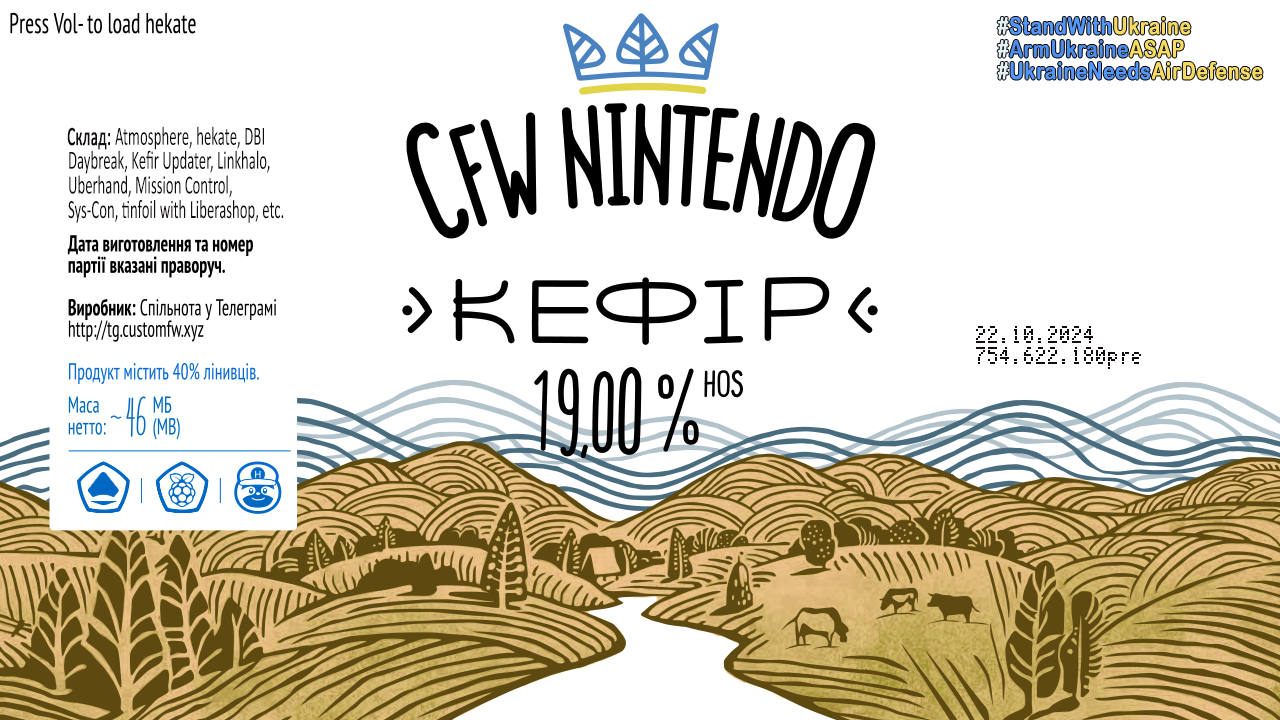
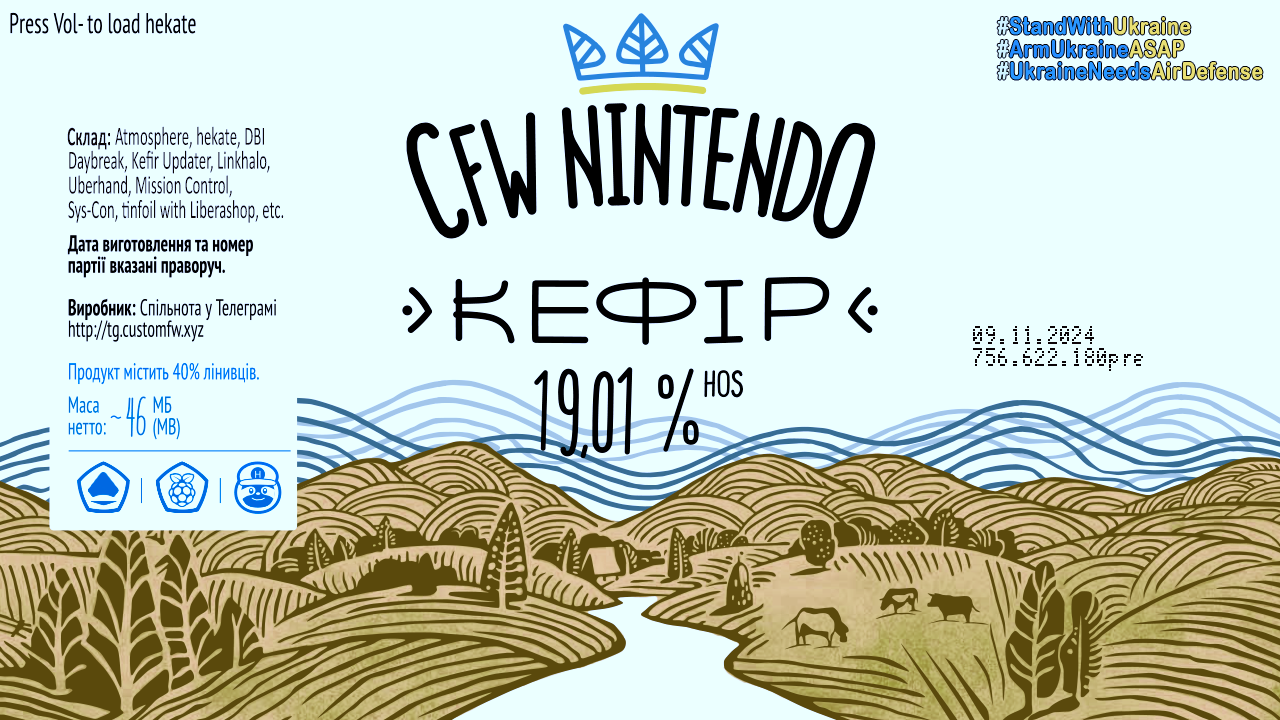
kefir756

diff --git a/kefir.html b/kefir.html
@@ -349,7 +349,7 @@
 <nav class="toc">
     <header><h4 class="nav__title"><i class="fa fa-file-text"></i> Разделы</h4></header>
 <ul class="toc__menu" id="markdown-toc">
-  <li><a href="#kefir-754" id="markdown-toc-kefir-754">KEFIR 754</a>    <ul>
+  <li><a href="#kefir-756" id="markdown-toc-kefir-756">KEFIR 756</a>    <ul>
       <li><a href="#что-такое-кефир" id="markdown-toc-что-такое-кефир">Что такое кефир</a></li>
       <li><a href="#инструкция-по-установкеобновлению-kefir" id="markdown-toc-инструкция-по-установкеобновлению-kefir">Инструкция по установке/обновлению kefir</a></li>
     </ul>
@@ -391,7 +391,7 @@
 
 <hr />
 
-<h2 id="kefir-754"><a href="https://github.com/rashevskyv/kefir/releases" target="_blank">KEFIR 754</a></h2>
+<h2 id="kefir-756"><a href="https://github.com/rashevskyv/kefir/releases" target="_blank">KEFIR 756</a></h2>
 
 <p class="text-center"><img src="/images/kefir.png" alt="kefir" width="70%" /></p>
 
@@ -705,7 +705,12 @@ hekate
 <h3 id="изменения-от-прошлой-версии">Изменения от прошлой версии</h3>
 
 <h4 id="ukr"><strong>UKR</strong></h4>
-<p><strong>Повна підтримка 19.0.0, хоча я все ще раджу тримати емунанд на 18.1.0</strong></p>
+<p><strong>Повна підтримка 19.0.1</strong></p>
+
+<p><strong>756</strong>:</p>
+<ul>
+  <li>[<strong>Виправлено</strong>] <a href="https://github.com/ndeadly/MissionControl/releases/tag/v0.12.0">MissionControl 0.12.0</a> - прибрано великотку</li>
+</ul>
 
 <p><strong>754</strong>:</p>
 <ul>
@@ -742,7 +747,12 @@ hekate
 <hr />
 
 <h4 id="eng"><strong>ENG</strong></h4>
-<p><strong>Full support for 19.0.0, although I still recommend keeping emunand on 18.1.0</strong></p>
+<p><strong>Full support for 19.0.1</strong></p>
+
+<p><strong>756</strong>:</p>
+<ul>
+  <li>[<strong>Fixed</strong>] <a href="https://github.com/ndeadly/MissionControl/releases/tag/v0.12.0">MissionControl 0.12.0</a> - removed easter egg</li>
+</ul>
 
 <p><strong>754</strong>:</p>
 <ul>
@@ -779,7 +789,12 @@ hekate
 <hr />
 
 <h4 id="rus"><strong>RUS</strong></h4>
-<p><strong>Полная поддержка 19.0.0, хотя я все еще советую держать эмунанд на 18.1.0</strong></p>
+<p><strong>Полная поддержка 19.0.1</strong></p>
+
+<p><strong>756</strong>:</p>
+<ul>
+  <li>[<strong>Исправлено</strong>] <a href="https://github.com/ndeadly/MissionControl/releases/tag/v0.12.0">MissionControl 0.12.0</a> - убрана пасхалка</li>
+</ul>
 
 <p><strong>754</strong>:</p>
 <ul>
